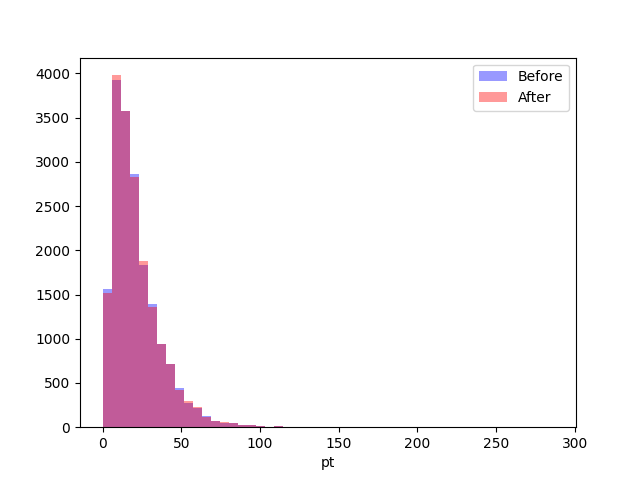
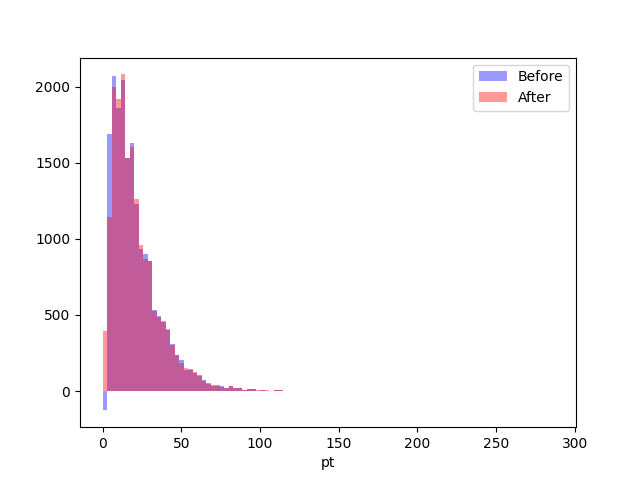
Final submission

diff --git a/cellResampling.py b/cellResampling.py
@@ -42,7 +42,7 @@ for i, row in negWeights.iterrows():
         fullData.at[i, 'used'] = True # Setting current negative event to used so it's not counted in the following loop
         usedEvents = [i] # Indices of events that are being added to the current cell
 
-        fullData['distance'] = np.sqrt((fullData['pt'] - ptNeg)**2 + 100*(fullData['y'] - yNeg)**2) # Calculating distances to all other events
+        fullData['distance'] = np.sqrt((fullData['pt'] - ptNeg)**2 + 736.736*(fullData['y'] - yNeg)**2) # Calculating distances to all other events
         sortedDistIndices = fullData['distance'].sort_values().index # Sorting the distances from shortest to largest and storing indices
         
         for j in sortedDistIndices:
@@ -67,20 +67,23 @@ for i, row in negWeights.iterrows():
 
 # Plotting pt values
 # Before redistribution
-plt.hist(fullData['pt'], bins=50, weights=fullData['weight'], label='Before', color='blue', alpha = 0.4)
+plt.hist(fullData['pt'], bins=100, weights=fullData['weight'], label='Before', color='blue', alpha = 0.4)
 # After
-plt.hist(fullData['pt'], bins=50, weights=fullData['redisWeight'], label='After', color='red', alpha = 0.4)
+plt.hist(fullData['pt'], bins=100, weights=fullData['redisWeight'], label='After', color='red', alpha = 0.4)
 plt.xlabel('pt')
 plt.legend()
 plt.savefig('ptHistogram')
-plt.show()
+# plt.show()
 
 # Plotting y values
 # Before redistribution
-plt.hist(fullData['y'], bins=50, weights=fullData['weight'], label='Before', color='blue', alpha = 0.4)
+plt.hist(fullData['y'], bins=100, weights=fullData['weight'], label='Before', color='blue', alpha = 0.4)
 # After
-plt.hist(fullData['y'], bins=50, weights=fullData['redisWeight'], label='After', color='red', alpha = 0.4)
+plt.hist(fullData['y'], bins=100, weights=fullData['redisWeight'], label='After', color='red', alpha = 0.4)
 plt.xlabel('y')
 plt.legend()
 plt.savefig('yHistogram')
-plt.show()
+# plt.show()
+
+# Scaling factor
+# print(((fullData['pt'].abs().sum())/(fullData['y'].abs().sum()))**2)

diff --git a/README.md b/README.md
@@ -2,10 +2,12 @@
 
 ### Results
 ![Histogram for $\rho_T$](ptHistogram.png) 
-Histogram for $\rho_T$
+
+Fig. 1: Histogram for $\rho_T$
 
 ![Histogram for $\rho_T$](yHistogram.png) 
-Histogram for $y$
+
+Fig. 2: Histogram for $y$
 
 ### Structure and Computational Complexity
 This is my implementation of the Cell Resampling Method. Overall structure of the code is as follows, with more comments in the script:
